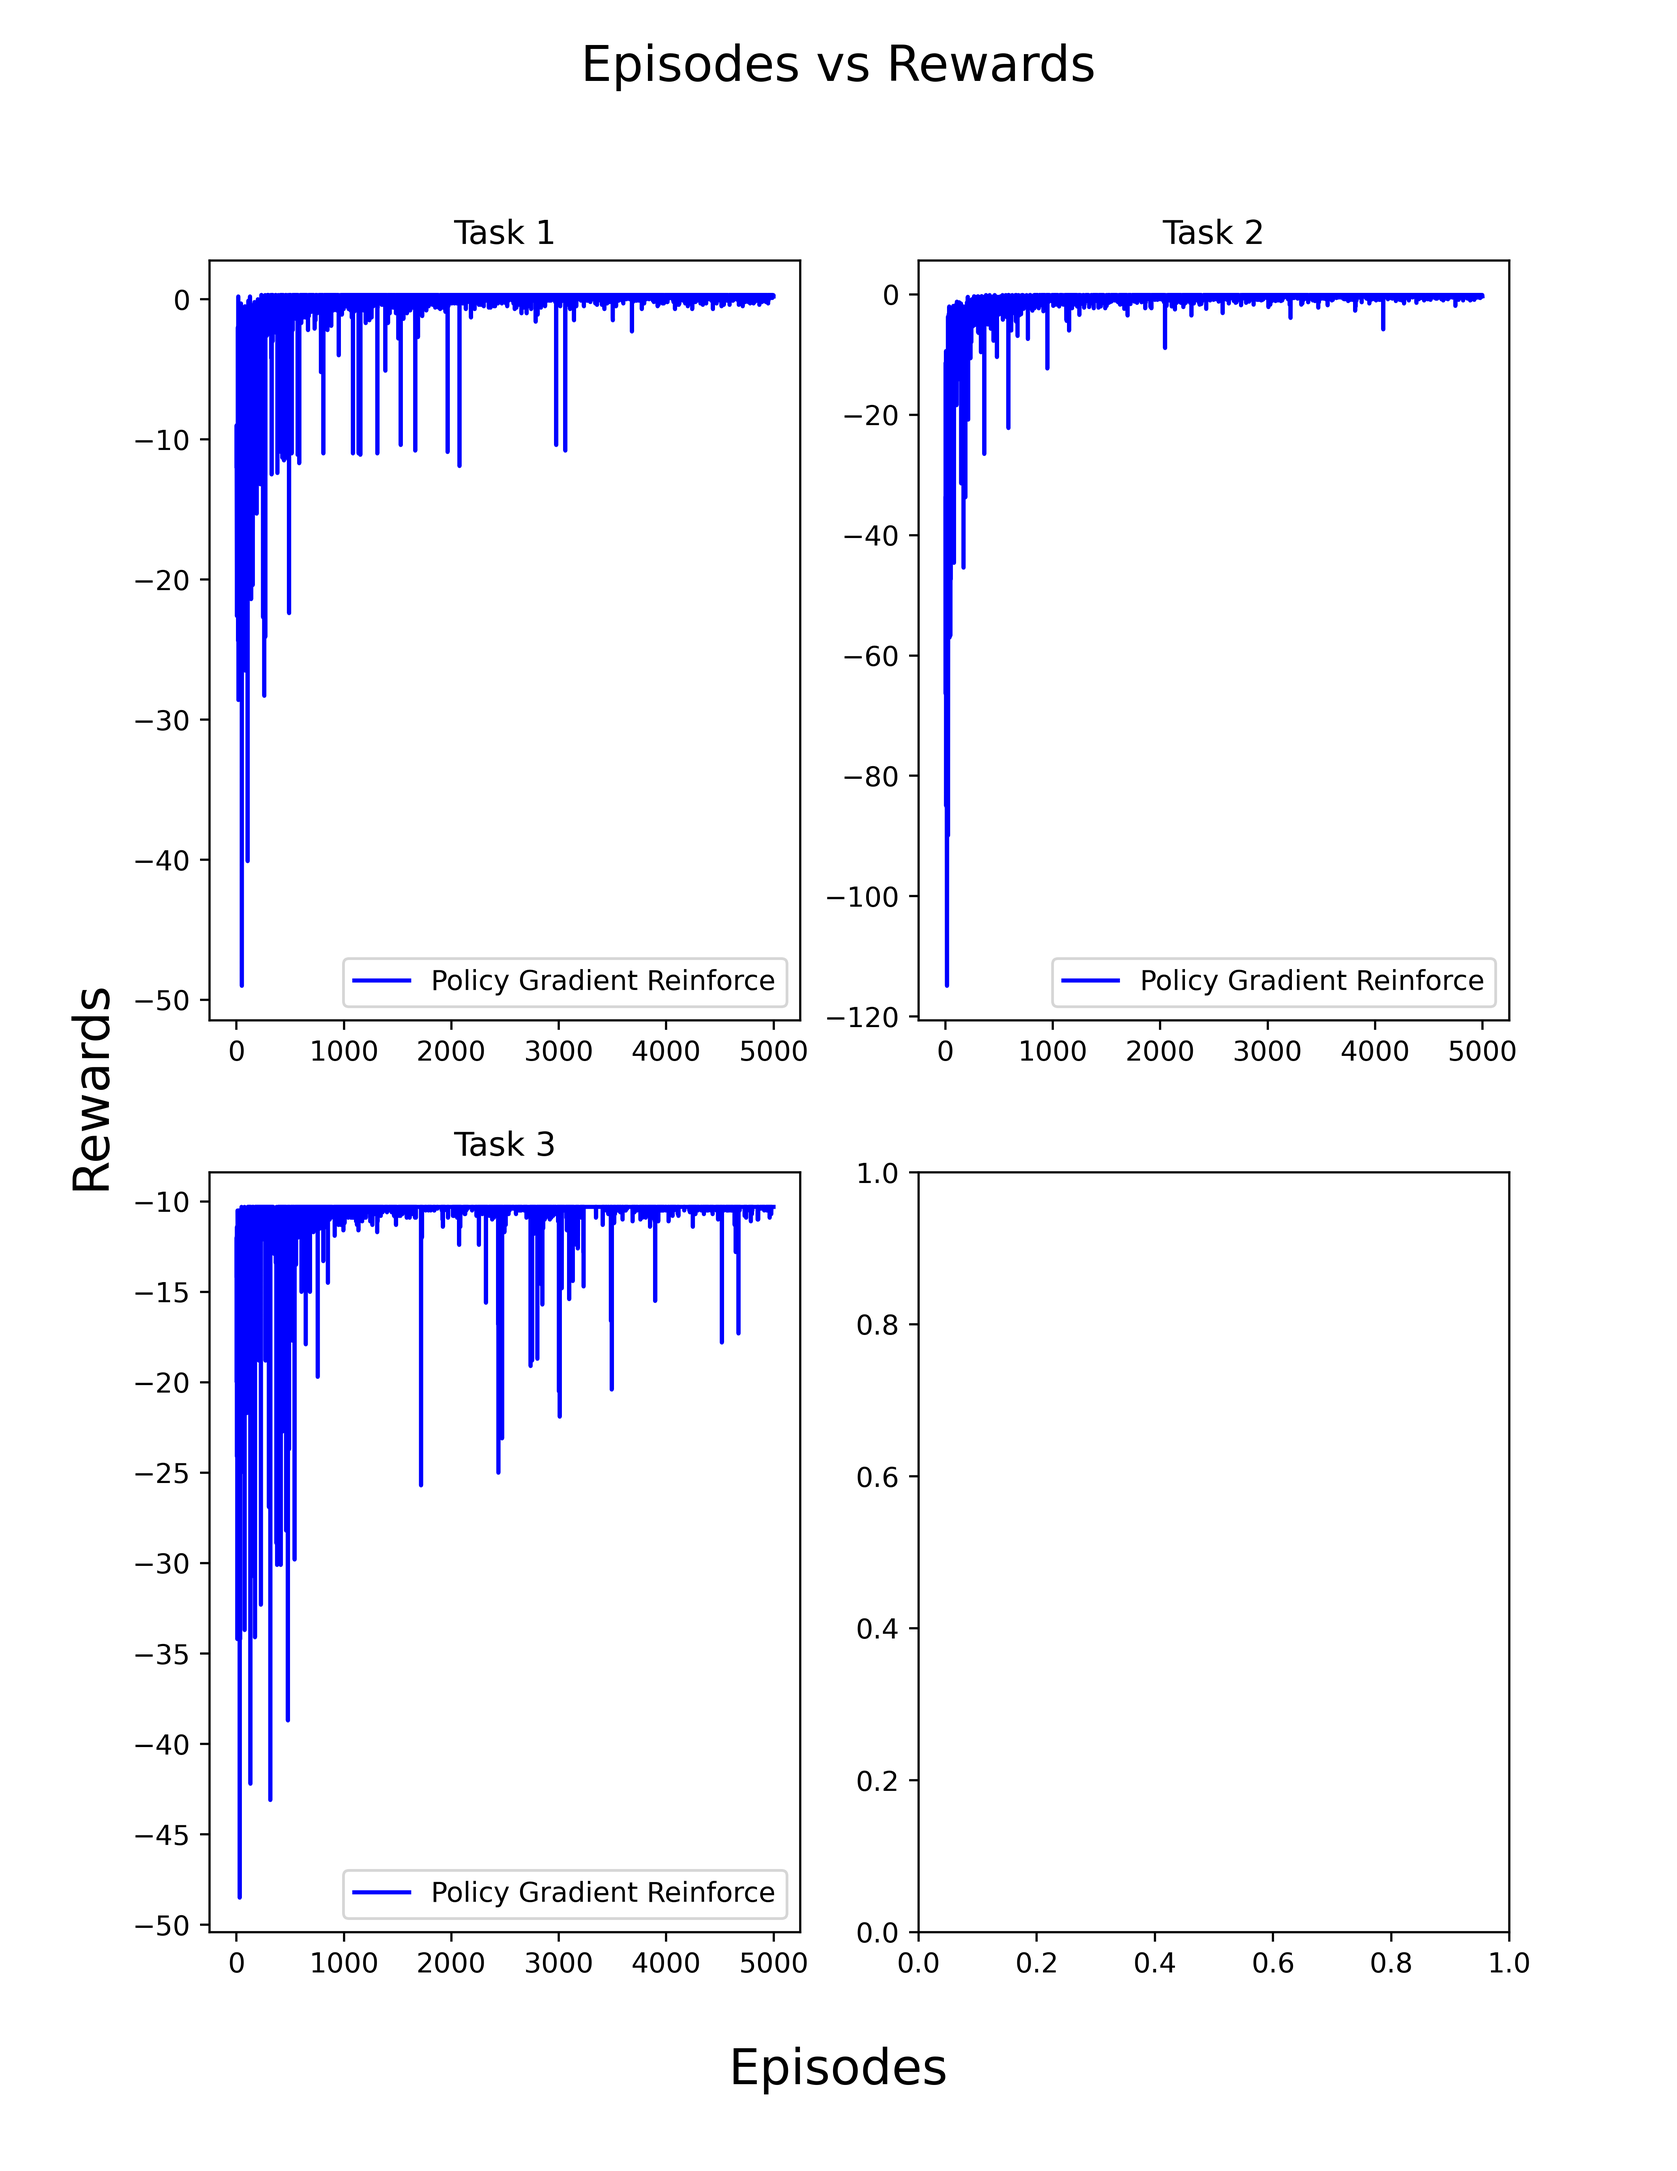
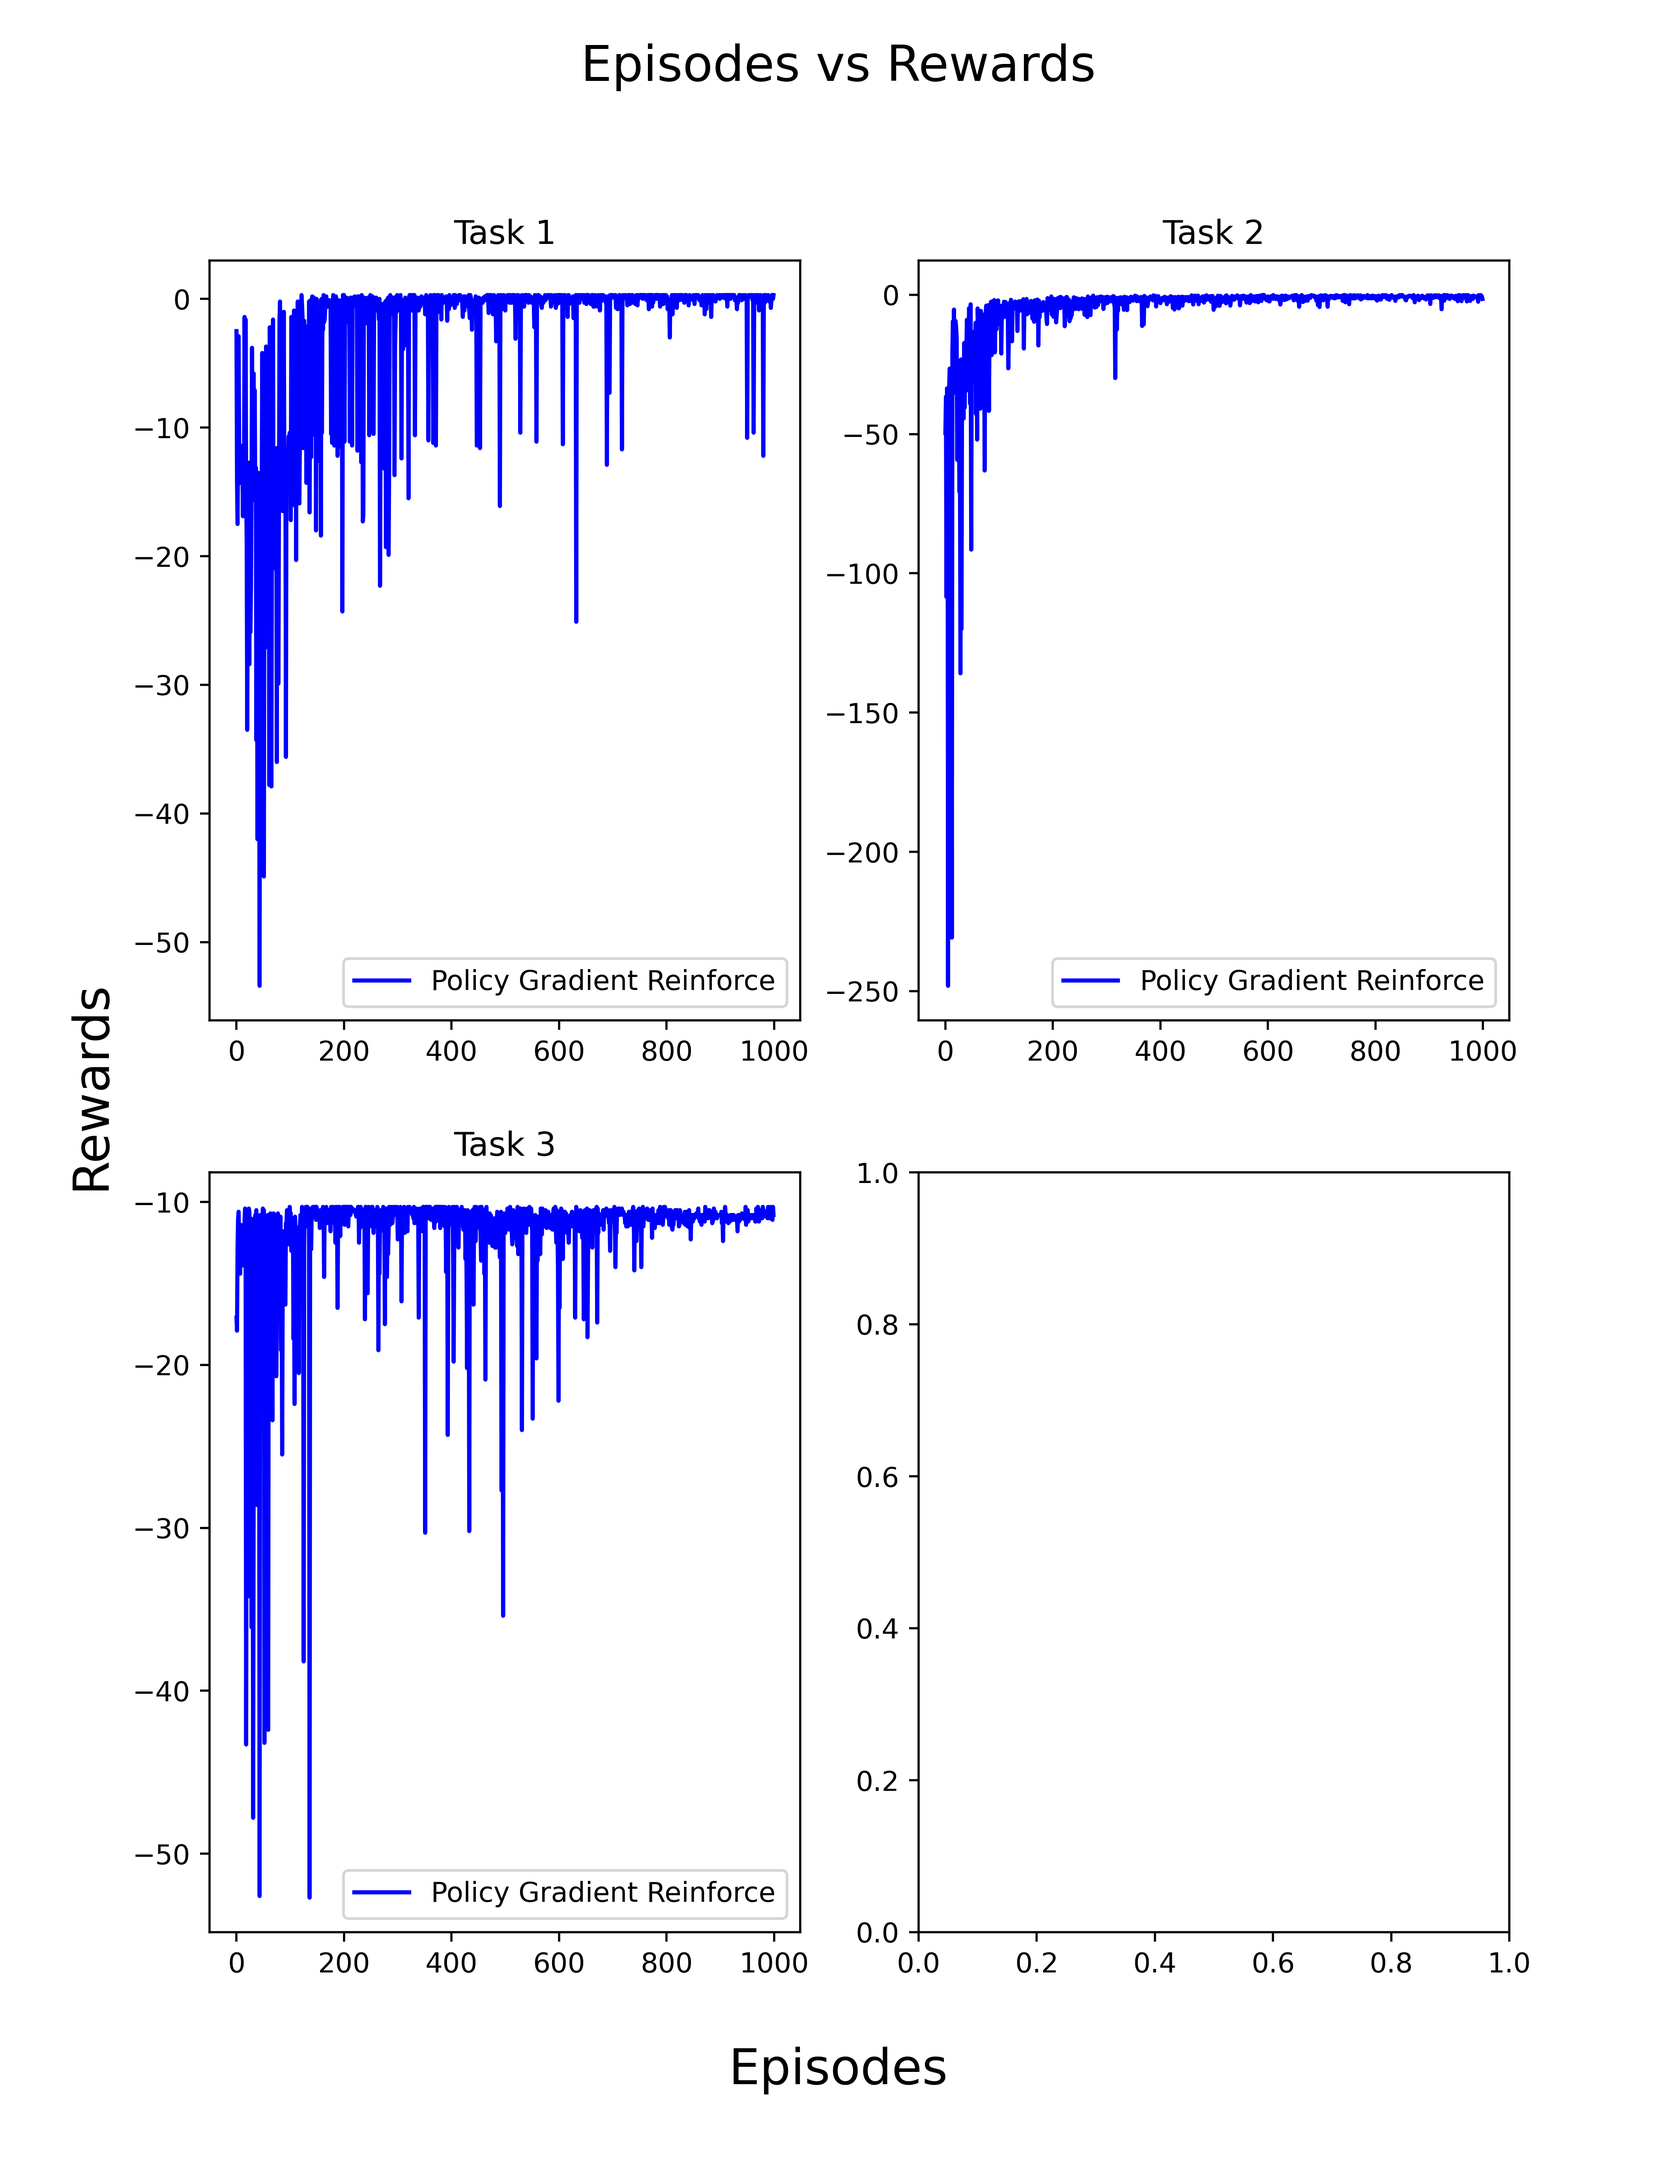
testing

diff --git a/assignments/grid_world/sim.py b/assignments/grid_world/sim.py
@@ -1,28 +1,25 @@
 import numpy as np
-import threading
-import sys
+np.random.seed(10)
 
-from run_main import update, debug
-from maze_env import Maze
-from plots import *
-# A3 MC
-from monte_carlo.MC_policy_gradient import PolicyGradientLearning
-# A3 TD
-from learning_algorithms.RL_brain_double_q_learning import DoubleQLearning
-from learning_algorithms.RL_brain_eligibility_trace_sarsa import EligibilityTraceSarsaLearning
-from learning_algorithms.RL_brain_expected_sarsa import ExpectedSarsaLearning
-# A2 TD
-from learning_algorithms.RL_brain_q_learning import QLearning
-from learning_algorithms.RL_brain_sarsa import SarsaLearning
-# A2 dp
-from dynamic_programming.DP_brain_PI import PolicyIteration
 from dynamic_programming.DP_brain_VI import ValueIteration
+from dynamic_programming.DP_brain_PI import PolicyIteration
+from learning_algorithms.RL_brain_sarsa import SarsaLearning
+from learning_algorithms.RL_brain_q_learning import QLearning
+from learning_algorithms.RL_brain_expected_sarsa import ExpectedSarsaLearning
+from learning_algorithms.RL_brain_eligibility_trace_sarsa import EligibilityTraceSarsaLearning
+from learning_algorithms.RL_brain_double_q_learning import DoubleQLearning
+from monte_carlo.MC_policy_gradient import PolicyGradientLearning
+from plots import *
+from maze_env import Maze
+from run_main import update, debug
+import sys
+import threading
 
 
 # showRender = False
-episodes = 5000
-# renderEveryNth = 10000
-# printEveryNth = 10000
+episodes = 10000
+renderEveryNth = 10000
+printEveryNth = 1000
 do_plot_rewards = True
 
 # Task Specifications
@@ -53,7 +50,7 @@ def append_data(task_num, env, rl, data):
 
 def do_algorithm(rl, task, env):
     data = {}
-    env.after(10, update(env, rl, data,
+    env.after(10, update(task, env, rl, data,
                          showRender=True,
                          episodes=episodes,
                          renderEveryNth=100,
@@ -64,56 +61,65 @@ def do_algorithm(rl, task, env):
 
 
 def value_iteration(task):
-    env = Maze(agentXY, goalXY, tasks[task][0], tasks[task][1], title=f"Value Iteration task {task+1}")
+    env = Maze(agentXY, goalXY, tasks[task][0], tasks[task]
+               [1], title=f"Value Iteration task {task+1}")
     rl = ValueIteration(list(range(env.n_actions)), env)
     do_algorithm(rl, task, env)
 
 
 def policy_iteration(task):
-    env = Maze(agentXY, goalXY, tasks[task][0], tasks[task][1], title=f"Policy Iteration task {task+1}")
+    env = Maze(agentXY, goalXY, tasks[task][0], tasks[task]
+               [1], title=f"Policy Iteration task {task+1}")
     rl = PolicyIteration(list(range(env.n_actions)), env)
     do_algorithm(rl, task, env)
 
 
 def sarsa_learning(task):
-    env = Maze(agentXY, goalXY, tasks[task][0], tasks[task][1], title=f"Sarsa Learning task {task+1}")
+    env = Maze(agentXY, goalXY, tasks[task][0], tasks[task]
+               [1], title=f"Sarsa Learning task {task+1}")
     rl = SarsaLearning(list(range(env.n_actions)))
     do_algorithm(rl, task, env)
 
 
 def expected_sarsa_learning(task):
-    env = Maze(agentXY, goalXY, tasks[task][0], tasks[task][1], title=f"Expected Sarsa Learning task {task+1}")
+    env = Maze(agentXY, goalXY, tasks[task][0], tasks[task]
+               [1], title=f"Expected Sarsa Learning task {task+1}")
     rl = ExpectedSarsaLearning(list(range(env.n_actions)))
     do_algorithm(rl, task, env)
 
 
 def q_learning(task):
-    env = Maze(agentXY, goalXY, tasks[task][0], tasks[task][1], title=f"Q Learning task {task+1}")
+    env = Maze(agentXY, goalXY, tasks[task][0],
+               tasks[task][1], title=f"Q Learning task {task+1}")
     rl = QLearning(list(range(env.n_actions)))
     do_algorithm(rl, task, env)
 
 
 def double_q_learning(task):
-    env = Maze(agentXY, goalXY, tasks[task][0], tasks[task][1], title=f"Double Q Learning task {task+1}")
+    env = Maze(agentXY, goalXY, tasks[task][0], tasks[task]
+               [1], title=f"Double Q Learning task {task+1}")
     rl = DoubleQLearning(list(range(env.n_actions)))
     do_algorithm(rl, task, env)
 
+
 def eligibility_trace_learning(task):
-    env = Maze(agentXY, goalXY, tasks[task][0], tasks[task][1], title=f"Eligibility Trace Learning task {task+1}")
+    env = Maze(agentXY, goalXY, tasks[task][0], tasks[task]
+               [1], title=f"Eligibility Trace Learning task {task+1}")
     rl = EligibilityTraceSarsaLearning(list(range(env.n_actions)))
     do_algorithm(rl, task, env)
 
 
 def policy_gradient_learning(task):
-    env = Maze(agentXY, goalXY, tasks[task][0], tasks[task][1], title=f"Policy Gradient Learning task {task+1}")
+    env = Maze(agentXY, goalXY, tasks[task][0], tasks[task]
+               [1], title=f"Policy Gradient Learning task {task+1}")
     rl = PolicyGradientLearning(list(range(env.n_actions)))
     do_algorithm(rl, task, env)
 
 
 # algos = [expected_sarsa_learning]
 
-algos = [sarsa_learning, q_learning, expected_sarsa_learning, eligibility_trace_learning, double_q_learning, policy_gradient_learning]
-
+algos = [sarsa_learning, q_learning, expected_sarsa_learning,
+         eligibility_trace_learning, double_q_learning, policy_gradient_learning]
 
 
 threads, sem = [], threading.Semaphore()
@@ -122,7 +128,7 @@ if len(sys.argv) > 1:
     for task_num, task in enumerate(tasks):
         print(f"running {algo.__name__} {task_num}")
         threads.append(threading.Thread(target=algo, args=(task_num,)))
-else:   
+else:
     for algo in algos:
         for task_num, task in enumerate(tasks):
             print(f"running {algo.__name__} {task_num}")

diff --git a/assignments/grid_world/run_main.py b/assignments/grid_world/run_main.py
@@ -19,7 +19,7 @@ def debug(debuglevel, msg, **kwargs):
             print(msg)
 
 
-def update(env, RL, data,
+def update(task_num, env, RL, data,
            sim_speed=0.001,
            showRender=False,
            renderEveryNth=1000,
@@ -66,9 +66,6 @@ def update(env, RL, data,
             # print(str(state))
             state, action = RL.learn(str(state), action, reward, str(state_))
 
-            # break while loop when end of this episode
-            # if len(rewards) > 100:
-            #     break
             if done:
                 if isinstance(RL, MonteCarloAlgorithm):
                     RL.update(states, actions, rewards)
@@ -77,10 +74,10 @@ def update(env, RL, data,
                 t = t+1
         end = time.time()
         data[RL.display_name].append(end-start)
-        debug(1, "({}) Episode {}: Length={}  Total return = {} ".format(RL.display_name, episode, t,
+        debug(1, "({}) Task: {} Episode {}: Length={}  Total return = {} ".format(RL.display_name, task_num, episode, t,
                                                                          global_reward[episode], global_reward[episode]), printNow=(episode % printEveryNth == 0))
         if(episode >= 100):
-            debug(1, "    Median100={} Variance100={}".format(np.median(global_reward[episode-100:episode]), np.var(
+            debug(1, "({}) Task: {} Median100={} Variance100={}".format(RL.display_name, task_num, np.median(global_reward[episode-100:episode]), np.var(
                 global_reward[episode-100:episode])), printNow=(episode % printEveryNth == 0))
 
     # end of game

diff --git a/assignments/grid_world/monte_carlo/MC_policy_gradient.py b/assignments/grid_world/monte_carlo/MC_policy_gradient.py
@@ -4,8 +4,6 @@ from ast import literal_eval
 import numpy as np
 from math import exp
 
-np.random.seed(10)
-
 class PolicyGradientLearning(MonteCarloAlgorithm):
     def __init__(self, actions,
                 num_features=100,  # number of grids
